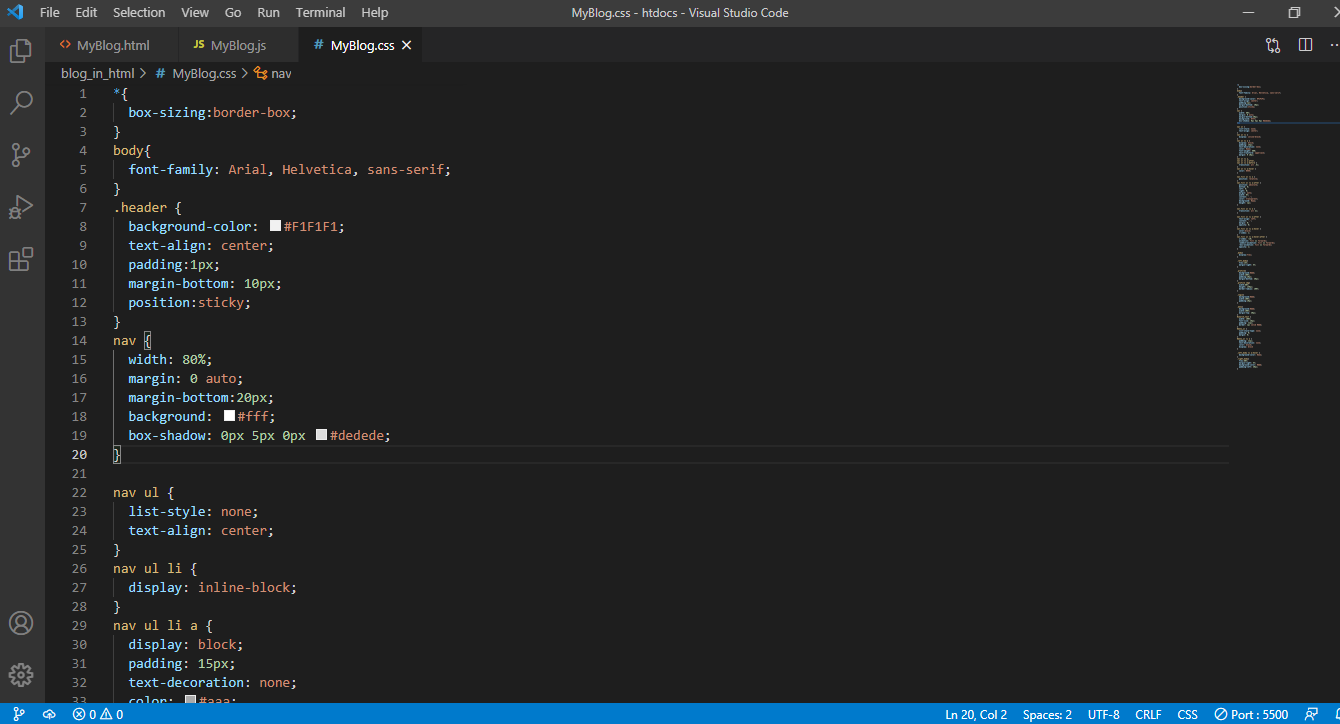
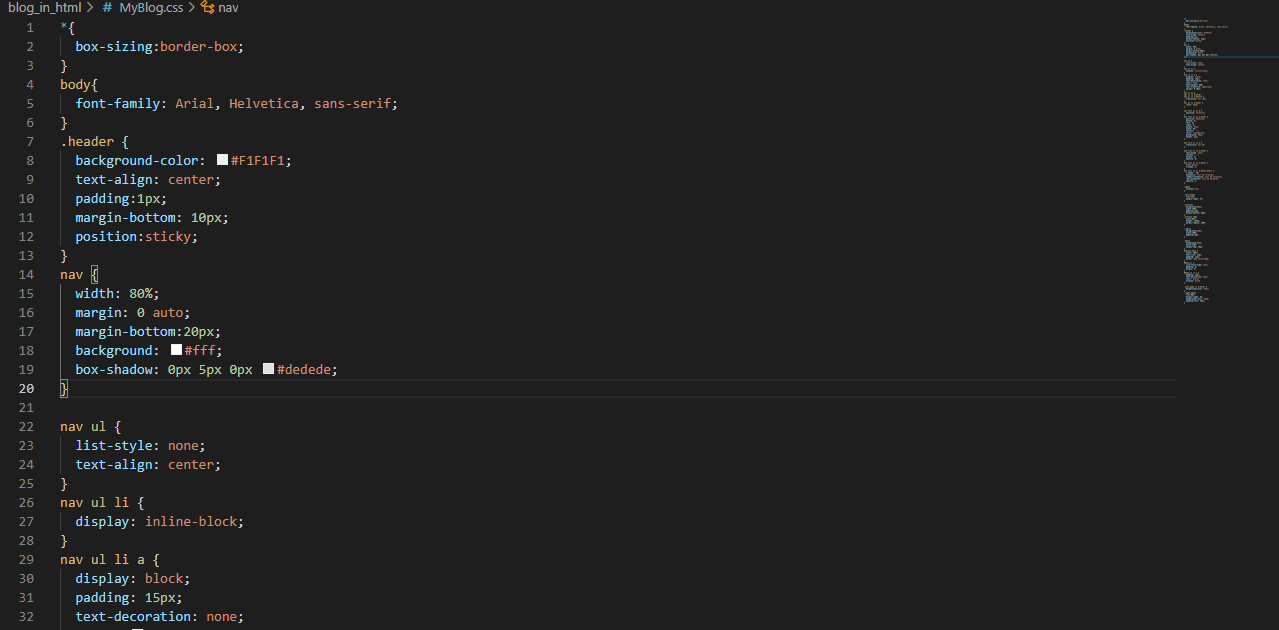
update

Changed region(s): [[0.0, 0.0, 1.0, 0.6333], [0.0, 0.6635, 1.0, 1.0]]

diff --git a/MyBlog.css b/MyBlog.css
@@ -7,87 +7,17 @@ body{
 }
 
 header {
-  background-color: black;
+  border-style:ridge;
   color:white;
   width:100%;
   padding:15px;
   text-align: center;
   top:0;
   left:0;
-  z-index: 1;
-}
-
-nav {
-  width: 80%;
-  margin: 0 auto;
-  margin-top:20px;
   margin-bottom:20px;
-  background: #fff;
-  box-shadow: 0px 5px 0px #dedede;
-}
-
-nav ul {
-  list-style: none;
-  text-align: center;
-}
-nav ul li {
-  display: inline-block;
-}
-nav ul li a {
-  display: block;
-  padding: 15px;
-  text-decoration: none;
-  color: #aaa;
-  font-weight: 800;
-  text-transform: uppercase;
-  margin: 0 10px;
-}
-nav ul li a,
-nav ul li a:after,
-nav ul li a:before {
-  transition: all .5s;
-}
-nav ul li a:hover {
-  color: #555;
-}
-
-nav.fill ul li a {
-  position: relative;
-}
-nav.fill ul li a:after {
-  position: absolute;
-  bottom: 0;
-  left: 0;
-  right: 0;
-  margin: auto;
-  width: 0%;
-  content: '.';
-  color: transparent;
-  background: #aaa;
-  height: 1px;
-}
-
-nav.fill ul li a {
-  transition: all 2s;
-}
-
-nav.fill ul li a:after {
-  text-align: left;
-  content: '.';
-  margin: 0;
-  opacity: 0;
-}
-nav.fill ul li a:hover {
-  color:black;
   z-index: 1;
 }
-nav.fill ul li a:hover:after {
-  z-index: -10;
-  animation: fill 1s forwards;
-  -webkit-animation: fill 1s forwards;
-  -moz-animation: fill 1s forwards;
-  opacity: 1;
-}
+
 
 .body{
   display:flex;
@@ -97,30 +27,29 @@ nav.fill ul li a:hover:after {
 .left_body{
   flex:15%;
   margin-right: 5%;
+  margin-left:0%;
 }
 
 .profile{
   border-radius: 20%;
-  background:#ddd;
+  border-style: solid;
   width:100%;
   padding:10px;
+  color:white;
   margin-bottom: 20px;
 }
 .profile img{
-  width:80%;
+  border-style: solid;
+  color:white;
+  width:75%;
   height: 140px;
   border-radius: 100%;
 }
 
-.login{
-  background:#ddd;
-  width:100%;
-  padding:10px;
-}
-
 .menu{
-  background:#ddd;
   width:100%;
+  border-style: solid;
+  color:white;
   margin-top: 20px;
 }
 #search_text {
@@ -137,23 +66,28 @@ nav.fill ul li a:hover:after {
 #menu_ul li a {
   padding: 12px;
   text-decoration: none;
-  color: black;
+  color: white;
   display: block
 }
 
 .left_body li a:hover {
-  background-color: #eee;
+  background-color: black;
 }
 .right_body{
   flex:80%;
-  margin-right: 5%;
-  background-color: #ddd;
+  background-color: white;
   padding-left: 20px;
+  border-style: solid;
+  border-color:tomato;
 }
 
 footer {
-  background-color: #F1F1F1;
+  border-style: outset;
+  color:white;
   text-align: center;
-  padding:1px;
+  position:absolute;
+  width:100%;
+  bottom : 0;
+  padding:10px;
   margin-top: 20px;
 }

diff --git a/MyBlog.html b/MyBlog.html
@@ -7,26 +7,12 @@
     </head>
     <body>
         <header><h2>header</h2></header>
-        <nav class="fill">
-            <ul>
-              <li><a href="#">Nav1</a></li>
-              <li><a href="#">Nav2</a></li>
-              <li><a href="#">Nav3</a></li>
-              <li><a href="#">Nav4</a></li>
-              <li><a href="#">Nav5</a></li>
-            </ul>
-        </nav>
         
       <div class="body">
         <div class="left_body">
           <div class="profile">
             <img src="hsu.jpg" alt="profile picture">
             <p>Hsu_Developer</p>
-          </div>
-          <div class="login">
-            <input type="text" id="login_id" placeholder="ID">
-            <input type="text" id="login_id" placeholder="PW">
-            <input type="button" id="login_btn" value="login">
           </div>
           <div class="menu">
             <input type="text" id="search_text" onkeyup="search_menu()" placeholder="Search..">
